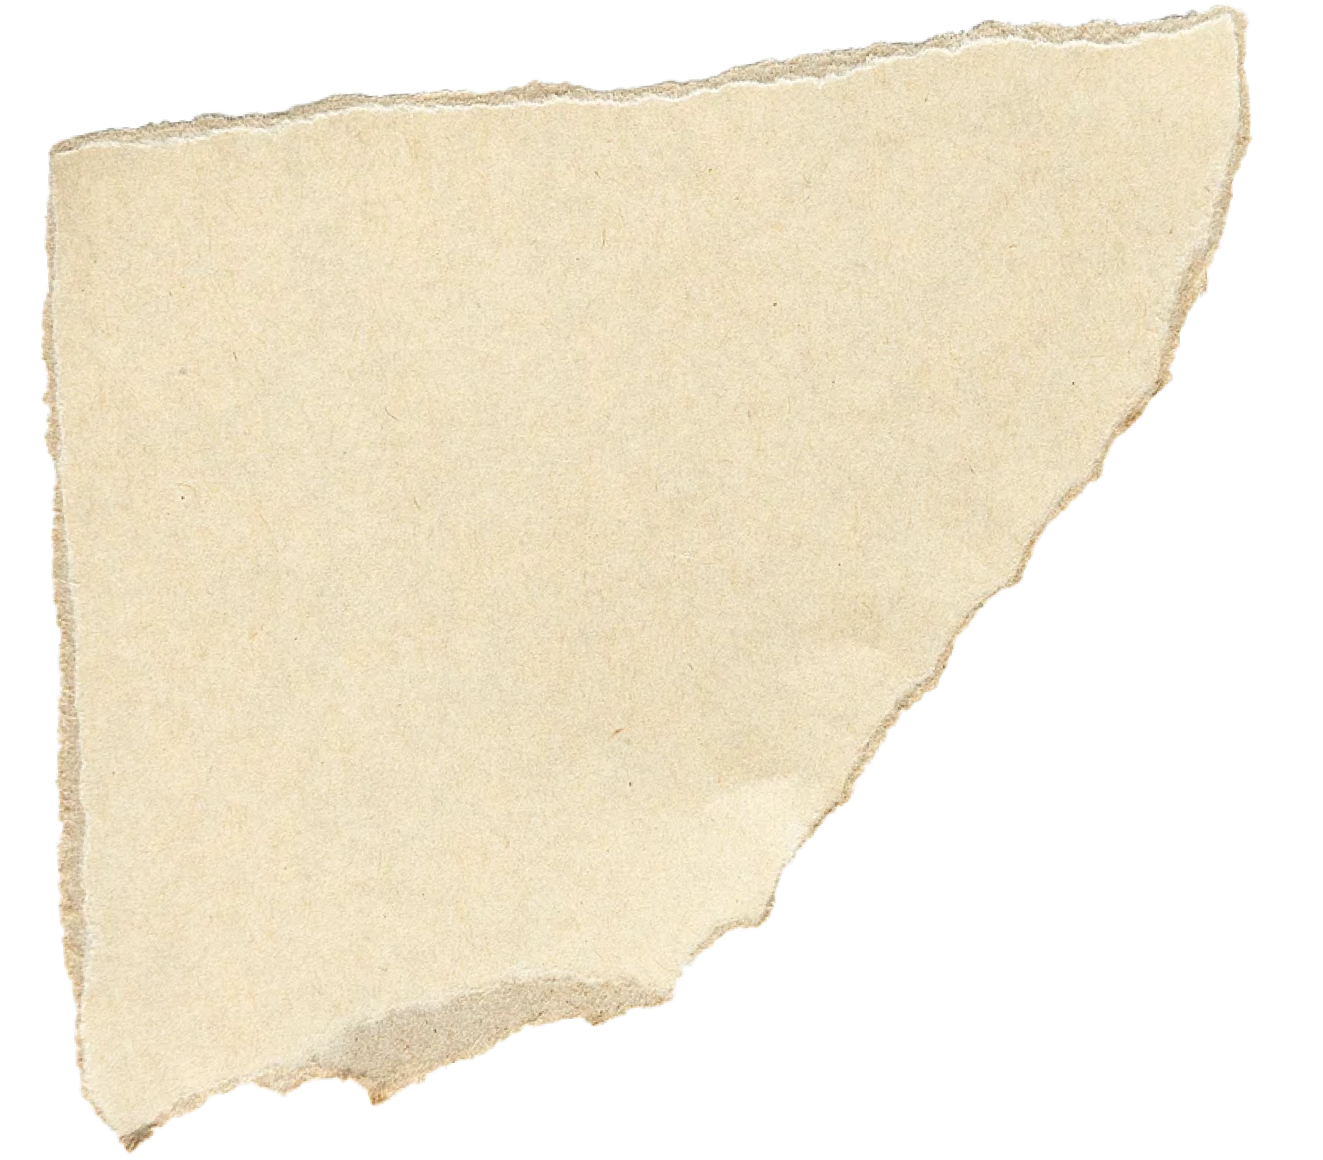
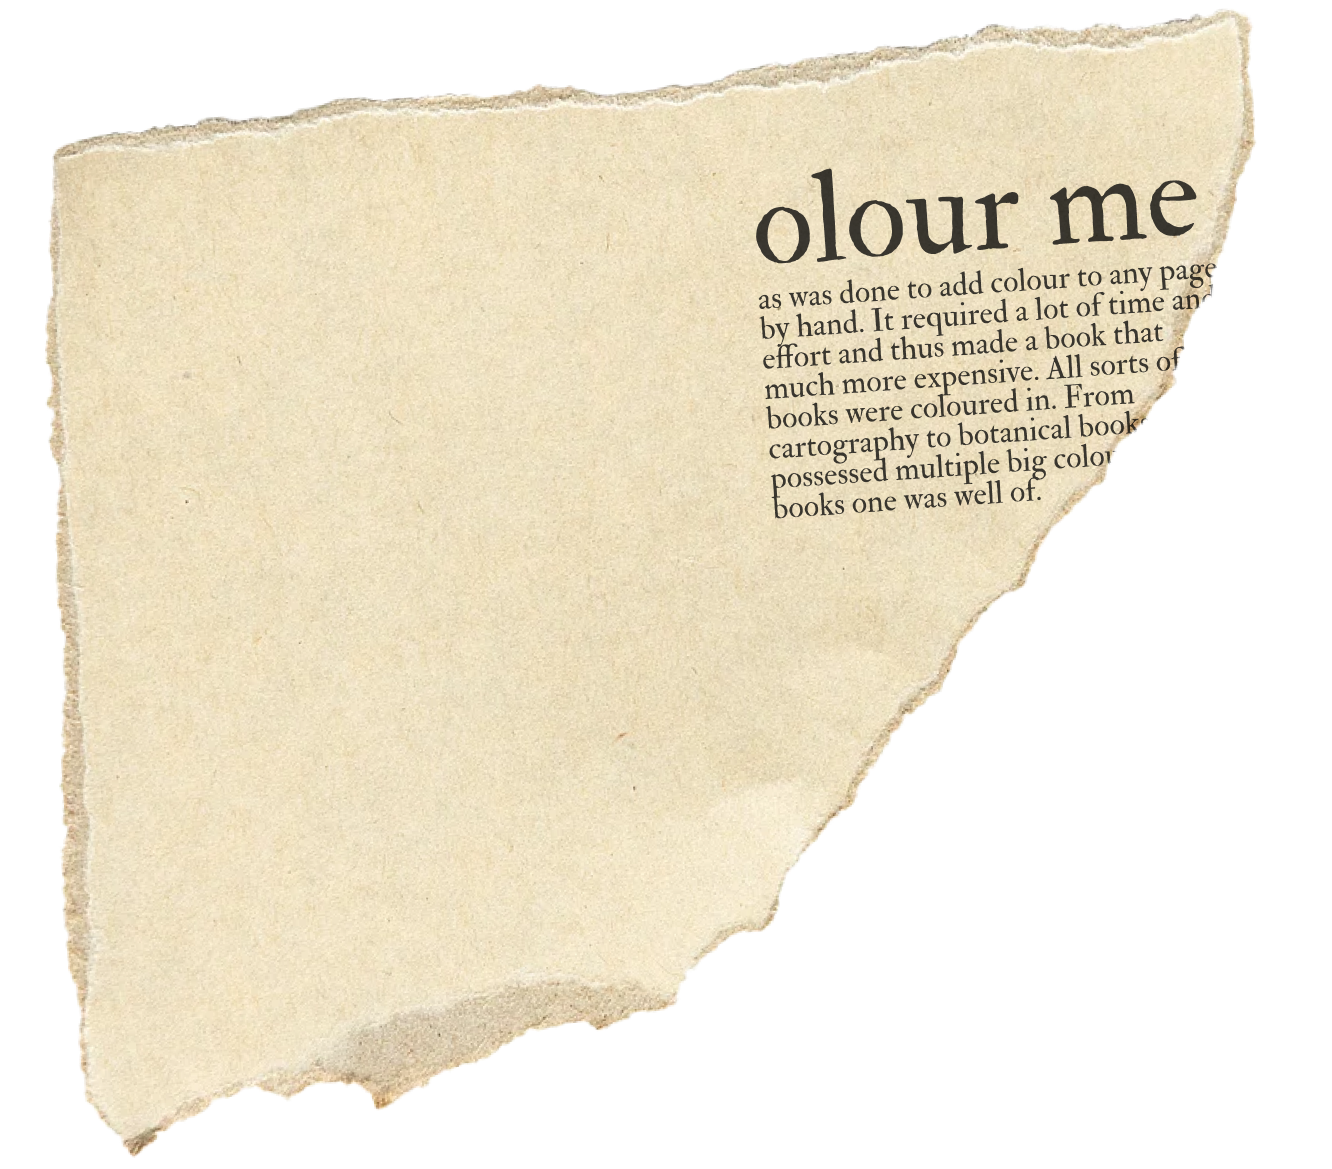
more css progress

diff --git a/src/css/style.css b/src/css/style.css
@@ -238,7 +238,7 @@ h2 {
     font-family: "Roboto", sans-serif;
     font-size: var(--fs-base);
     font-variant: all-small-caps;
-    color: var(--primary-red, #E20C0C); 
+    color: var(--primary-red, #E20C0C);
     text-align: center;
 }
 
@@ -824,7 +824,7 @@ p+p {
     display: none;
 }
 
-.family__container__fill{
+.family__container__fill {
     margin-bottom: 3rem;
 }
 
@@ -843,7 +843,7 @@ p+p {
     position: relative;
 }
 
-.map__img::after{
+.map__img::after {
     content: url(../../assets/svg/stamp-antwerp.svg);
     position: absolute;
     right: 15%;
@@ -852,6 +852,7 @@ p+p {
     width: 7rem;
     mix-blend-mode: multiply;
 }
+
 /* 
 .map__dart__circle {
     grid-row: 1;
@@ -882,16 +883,138 @@ p+p {
 }
 
 /* --- passport section ------------------------------------------------------------------------------------------ */
-.pass__container{
+.pass__container {
     margin-top: 3rem;
     display: grid;
     align-items: center;
     justify-content: center;
 }
 
-.pass__bigtext{
+.pass__bigtext {
     text-align: center;
     font-family: "IM Fell Double Pica", serif;
     line-height: 110%;
     font-size: var(--fs-xxl);
+    grid-column: 1;
+    grid-row: 2;
+}
+
+.pass__id {
+    grid-column: 1;
+    grid-row: 2 / span 2;
+    max-width: 14rem;
+    transform: rotate(29.915deg);
+    align-self: center;
+    justify-self: end;
+    margin-bottom: 6rem;
+}
+
+.pass__img {
+    display: grid;
+    transform: rotate(5.293deg);
+    grid-column: 1;
+    grid-row: 2 / span 2;
+    place-items: center;
+}
+
+.pass__img__closed {
+    grid-column: 1;
+    grid-row: 1;
+    transform: scale(.5);
+}
+
+.pass__img__open {
+    grid-column: 1;
+    grid-row: 1;
+    transform: scale(.9);
+}
+
+/* --- colour section -------------------------------------------------------------------------------------------- */
+.colour__container__article {
+    display: grid;
+    width: 150vw;
+    margin-bottom: 4rem;
+    grid-template-columns: 2fr 1fr;
+}
+
+.colour__container__article__interactive {
+        grid-column: 1;
+            grid-row: 1;
+    display: grid;
+    grid-template-rows: auto 1fr;
+    justify-items: stretch;
+    gap: 2rem;
+    margin-right: 2rem; 
+}
+
+.colour__container__article__c {
+    grid-column: 1;
+        grid-row: 1;
+    display: grid;
+    justify-items: stretch;
+    position: relative;
+    transform: rotate(-4.035deg);
+        mix-blend-mode: multiply;
+         padding: .5rem;
+}
+
+.colour__container__options {
+    grid-column: 1;
+    grid-row: 2;
+    display: flex;
+    justify-content: space-evenly ;
+}
+
+.colour__canvas {
+    grid-column: 1;
+    grid-row: 1;
+    width: 100%;
+    height: 100%;
+    position: absolute;
+
+}
+
+.colour__drawing {
+    grid-column: 1;
+    grid-row: 1;
+    mix-blend-mode: multiply;
+}
+
+.colour__newspaper{
+    grid-column: 1 / span 2;
+    grid-row: 1;
+    margin: -3rem;
+    margin-left: -2rem;
+    margin-top: -4rem;
+}
+
+.colour__circle{
+    border-radius: 50%;
+    width: 4rem;
+    height: 4rem;
+    border: var(--black) solid 6px;
+    flex-shrink: 1;
+}
+
+.colour__option{
+    display: flex;
+    flex-flow: column nowrap;
+    align-items: center;
+    justify-content: center;
+}
+
+.colour__circle--yellow{
+    background-color: #FFE69C;
+}
+
+.colour__circle--blue {
+    background-color: #97B7DB;
+}
+
+.colour__circle--pink {
+    background-color: #B47072;
+}
+
+.colour__circle--green {
+    background-color: #AFB471;
 }

diff --git a/index.html b/index.html
@@ -309,7 +309,7 @@
     <section class="pass__container">
       <p class="red-caps ">Stamp his passport</p>
       <p class="pass__bigtext">Plantin was ready to set op shop in Antwerp</p>
-      <picture>
+      <picture class="pass__id">
         <img src="assets/img/id-plantin.png" alt="old dust pink passport from plantin">
       </picture>
       <div class="pass__img">
@@ -323,28 +323,35 @@
     </section>
 
     <section class="colour__container">
-      <picture class="colour__newspaper">
-        <img src="assets/img/colour-article.png" alt="newspaper with a woodblock drawing on top of it">
-      </picture>
-      <canvas class="colour__canvas"></canvas>
-      <picture class="colour__drawing">
-        <img src="assets/svg/colour-letter.svg" alt="woodblock drawing of the capital letter C with decoration">
-      </picture>
-      <div class="colour__option__blue">
-        <div class="colour__circle--blue"></div>
-        <p>blue</p>
-      </div>
-      <div class="colour__option__green">
-        <div class="colour__circle--green"></div>
-        <p>green</p>
-      </div>
-      <div class="colour__option__yellow">
-        <div class="colour__circle--yellow"></div>
-        <p>yellow</p>
-      </div>
-      <div class="colour__option__pink">
-        <div class="colour__circle--pink"></div>
-        <p>pink</p>
+      <div class="colour__container__article">
+        <picture class="colour__newspaper">
+          <img src="assets/img/colour-article.png" alt="newspaper with a woodblock drawing on top of it">
+        </picture>
+        <div class="colour__container__article__interactive">
+          <div class="colour__container__article__c">
+            <canvas class="colour__canvas"></canvas>
+            <img class="colour__drawing" src="assets/svg/colour-letter.svg"
+              alt="woodblock drawing of the capital letter C with decoration">
+          </div>
+          <div class="colour__container__options">
+            <div class="colour__option--blue colour__option">
+              <div class="colour__circle--blue colour__circle"></div>
+              <p>blue</p>
+            </div>
+            <div class="colour__option--green colour__option">
+              <div class="colour__circle--green colour__circle"></div>
+              <p>green</p>
+            </div>
+            <div class="colour__option--yellow colour__option">
+              <div class="colour__circle--yellow colour__circle"></div>
+              <p>yellow</p>
+            </div>
+            <div class="colour__option--pink colour__option">
+              <div class="colour__circle--pink colour__circle"></div>
+              <p>pink</p>
+            </div>
+          </div>
+        </div>
       </div>
       <h2 class="colour__title">In Colour?</h2>
       <p class="colour__p">
